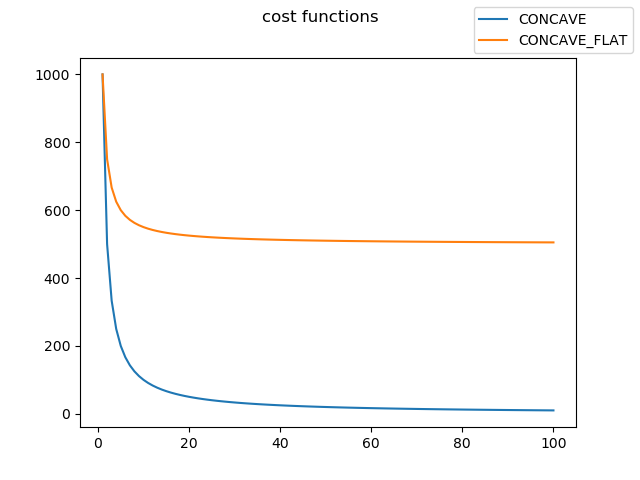
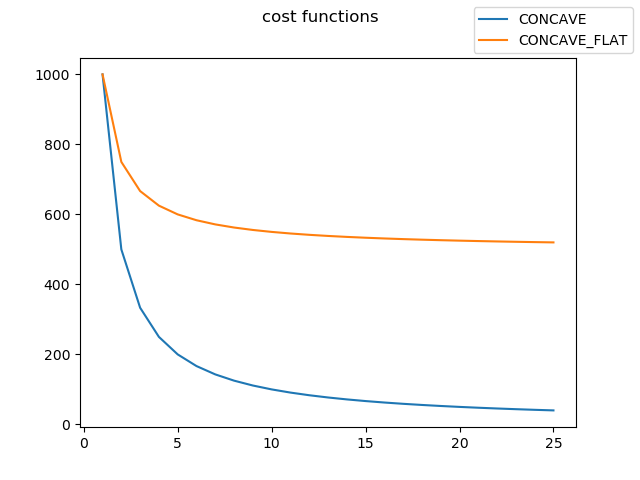
add test, comparator

diff --git a/research.py b/research.py
@@ -7,7 +7,7 @@ from cost_functions import LengthFunctionType
 from generator import Generator
 from metrics import make_metrics, Metrics, make_mean_metrics
 from plot import print_metrics
-from schedulers.abstract import AbstractScheduler, comparator_smallest_task, comparator_oldest_task
+from schedulers.abstract import AbstractScheduler, comparator_smallest_task, comparator_smallest_left_task, comparator_oldest_task
 from schedulers.abstract_separate import AbstractSeparateScheduler
 from schedulers.naive import NaiveScheduler
 from schedulers.preemption import PreemptionScheduler
@@ -189,7 +189,6 @@ ALL_PERCENT = [0.2, 0.4, 0.6, 0.8, 1.0]
 
 
 def research():
-    # test()
     schedulers = [
         NaiveScheduler(comparator_smallest_task),  # better
         NaiveScheduler(comparator_oldest_task),
@@ -216,15 +215,15 @@ def research():
         PreemptionScheduler(comparator_smallest_task),
         PreemptionScheduler(comparator_oldest_task),  # better
     ]
-    parameters = Parameters(test_number=3, n_procesors=100, task_number=10_000, max_load=1.0, cov=10,
-                            max_part_of_processors=1.0, length_function=LengthFunctionType.CONCAVE_FLAT)
-    make_research(parameters, Variable.COV, ALL_COV, schedulers)
-    parameters = Parameters(test_number=3, n_procesors=100, task_number=10_000, max_load=0.2, cov=10,
-                            max_part_of_processors=1.0, length_function=LengthFunctionType.CONCAVE_FLAT)
-    make_research(parameters, Variable.COV, ALL_COV, schedulers)
-    parameters = Parameters(test_number=3, n_procesors=100, task_number=10_000, max_load=0.2, cov=0.3,
-                            max_part_of_processors=1.0, length_function=LengthFunctionType.CONCAVE_FLAT)
-    make_research(parameters, Variable.MAX_LOAD, ALL_PERCENT, schedulers)
-    parameters = Parameters(test_number=3, n_procesors=100, task_number=10_000, max_load=0.2, cov=10,
+    # parameters = Parameters(test_number=3, n_procesors=100, task_number=10_000, max_load=1.0, cov=10,
+    #                         max_part_of_processors=1.0, length_function=LengthFunctionType.CONCAVE)
+    # make_research(parameters, Variable.COV, ALL_COV, schedulers)
+    # parameters = Parameters(test_number=3, n_procesors=100, task_number=10_000, max_load=0.2, cov=10,
+    #                         max_part_of_processors=1.0, length_function=LengthFunctionType.CONCAVE)
+    # make_research(parameters, Variable.COV, ALL_COV, schedulers)
+    # parameters = Parameters(test_number=3, n_procesors=100, task_number=10_000, max_load=0.2, cov=0.3,
+    #                         max_part_of_processors=1.0, length_function=LengthFunctionType.CONCAVE)
+    # make_research(parameters, Variable.MAX_LOAD, ALL_PERCENT, schedulers)
+    parameters = Parameters(test_number=1, n_procesors=100, task_number=10_000, max_load=0.2, cov=10,
                             max_part_of_processors=1.0, length_function=LengthFunctionType.CONCAVE)
     make_research(parameters, Variable.MAX_LOAD, ALL_PERCENT, schedulers)

diff --git a/test.py b/test.py
@@ -11,7 +11,7 @@ from schedulers.separate_with_premption import SeparateWithPremptionScheduler
 def print_cost():
     values = [(en.get_name(), en.get_function()) for en in
               [LengthFunctionType.CONCAVE, LengthFunctionType.CONCAVE_FLAT]]
-    print_cost_functions(1, 100, 1000, values)
+    print_cost_functions(1, 25, 1000, values)
 
 
 def print_distribution():
@@ -46,10 +46,39 @@ def test1():
     scheduler4 = PreemptionScheduler()
     scheduler4.schedule(n_proc, instance)
 
-    print_schedulings(instance, [scheduler1, scheduler2, scheduler3, scheduler4])
+    print_schedulings(instance, [scheduler1, scheduler2, scheduler3, scheduler4], "gantt.png")
+
+
+def test2():
+    treshold = 8
+    n_proc = 4
+    n_min = 1
+    n_max = int(1.0 * n_proc)
+    instance = [
+        Task(0, 0, n_min, n_max, 13, concave_function),
+        Task(1, 2, n_min, n_max, 4, concave_function),
+        Task(2, 2, n_min, n_max, 7, concave_function),
+        Task(3, 10, n_min, n_max, 10, concave_function),
+        Task(4, 9, n_min, n_max, 12, concave_function),
+        Task(5, 7.5, n_min, n_max, 11, concave_function)
+    ]
+    scheduler1 = NaiveScheduler()
+    scheduler1.schedule(n_proc, instance)
+
+    scheduler2 = SeparateScheduler(treshold, 0.5)
+    scheduler2.schedule(n_proc, instance)
+
+    scheduler3 = SeparateWithPremptionScheduler(treshold, 0.5)
+    scheduler3.schedule(n_proc, instance)
+
+    scheduler4 = PreemptionScheduler()
+    scheduler4.schedule(n_proc, instance)
+
+    print_schedulings(instance, [scheduler1, scheduler2, scheduler3, scheduler4], "gantt2.png")
 
 
 def test():
     print_cost()
     print_distribution()
     test1()
+    test2()

diff --git a/schedulers/separate_with_premption.py b/schedulers/separate_with_premption.py
@@ -1,14 +1,14 @@
 from typing import List, Callable, Any
 
 from schedulers.abstract_separate import AbstractSeparateScheduler
-from schedulers.abstract import AbstractScheduler, comparator_smallest_task
+from schedulers.abstract import AbstractScheduler, comparator_oldest_task
 from models import Task, Procesor
 
 
 class SeparateWithPremptionScheduler(AbstractSeparateScheduler):
 
     def __init__(self, task_size_treshold: float, proc_of_small: float = 0.5,
-                 priority_function: Callable[[AbstractScheduler, Task, int], Any] = comparator_smallest_task):
+                 priority_function: Callable[[AbstractScheduler, Task, int], Any] = comparator_oldest_task):
         super().__init__(task_size_treshold, proc_of_small, priority_function)
         self.procesors_for_small: List[Procesor] = []
         self.procesors_for_big: List[Procesor] = []

diff --git a/plot.py b/plot.py
@@ -4,7 +4,6 @@ from typing import List, Optional, DefaultDict, Set, Dict, Callable, Tuple, Any
 from matplotlib import pyplot as plt
 from matplotlib.axes import Axes
 
-from cost_functions import LengthFunctionType
 from schedulers.abstract import AbstractScheduler
 from metrics import Metrics, get_max_end
 from models import Task, Procesor
@@ -95,6 +94,8 @@ def print_metrics(xs_of_metrics: Dict[Any, Dict[str, Metrics]], main_name: str,
         plots = _to_plot(xs_of_metrics, func)
         title = plot_names_mapping.get(name, name)
         axs[i // 3, i % 3].set_title(title)
+        # axs[i // 3, i % 3].set_yscale('log')
+        # axs[i // 3, i % 3].set_xscale('log')
         for name_ske, ys in plots.items():
             label = scheduler_names_mapping.get(name_ske, name_ske)
             axs[i // 3, i % 3].plot(xs, ys, label=label)

diff --git a/schedulers/abstract_separate.py b/schedulers/abstract_separate.py
@@ -16,7 +16,7 @@ class AbstractSeparateScheduler(AbstractScheduler):
         return super().get_name() + "-" + str(self.proc_of_small)
 
     def get_title(self) -> str:
-        return super().get_title() + f" thres:{self.task_size_treshold} small:{self.proc_of_small}"
+        return super().get_title() + f"\nsmall:{self.proc_of_small}"
 
     def get_n_of_proc_small(self) -> int:
         calc_proc_small = int(len(self.procesors) * self.proc_of_small)

diff --git a/schedulers/abstract.py b/schedulers/abstract.py
@@ -109,3 +109,8 @@ def comparator_oldest_task(scheduler: AbstractScheduler, task: Task, posible_pro
 
 def comparator_smallest_task(scheduler: AbstractScheduler, task: Task, posible_procesors: int) -> Any:
     return task.calc_length(posible_procesors)
+
+
+def comparator_smallest_left_task(scheduler: AbstractScheduler, task: Task, posible_procesors: int) -> Any:
+    left = task.left_part()
+    return task.calc_length(posible_procesors) * left
